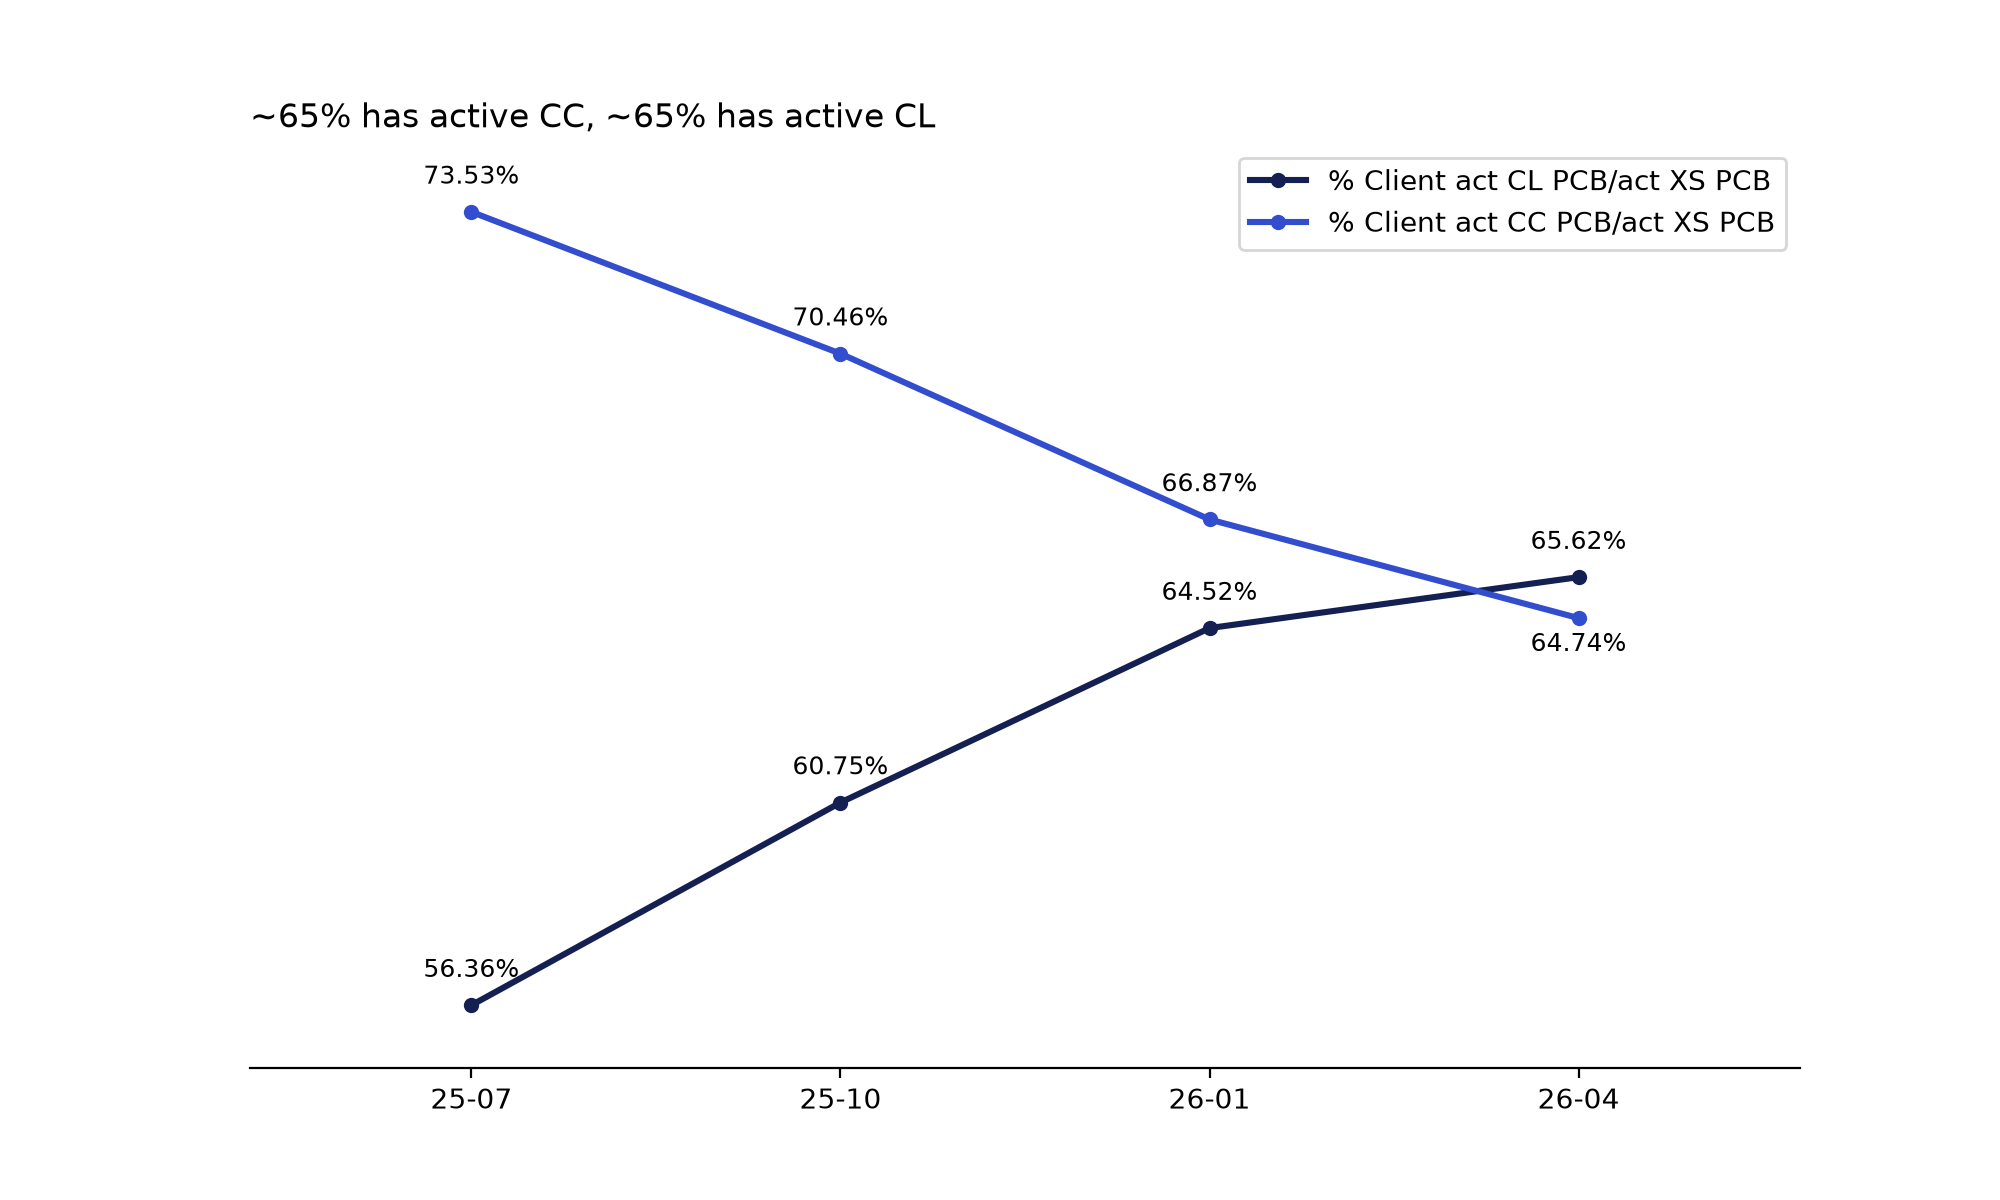
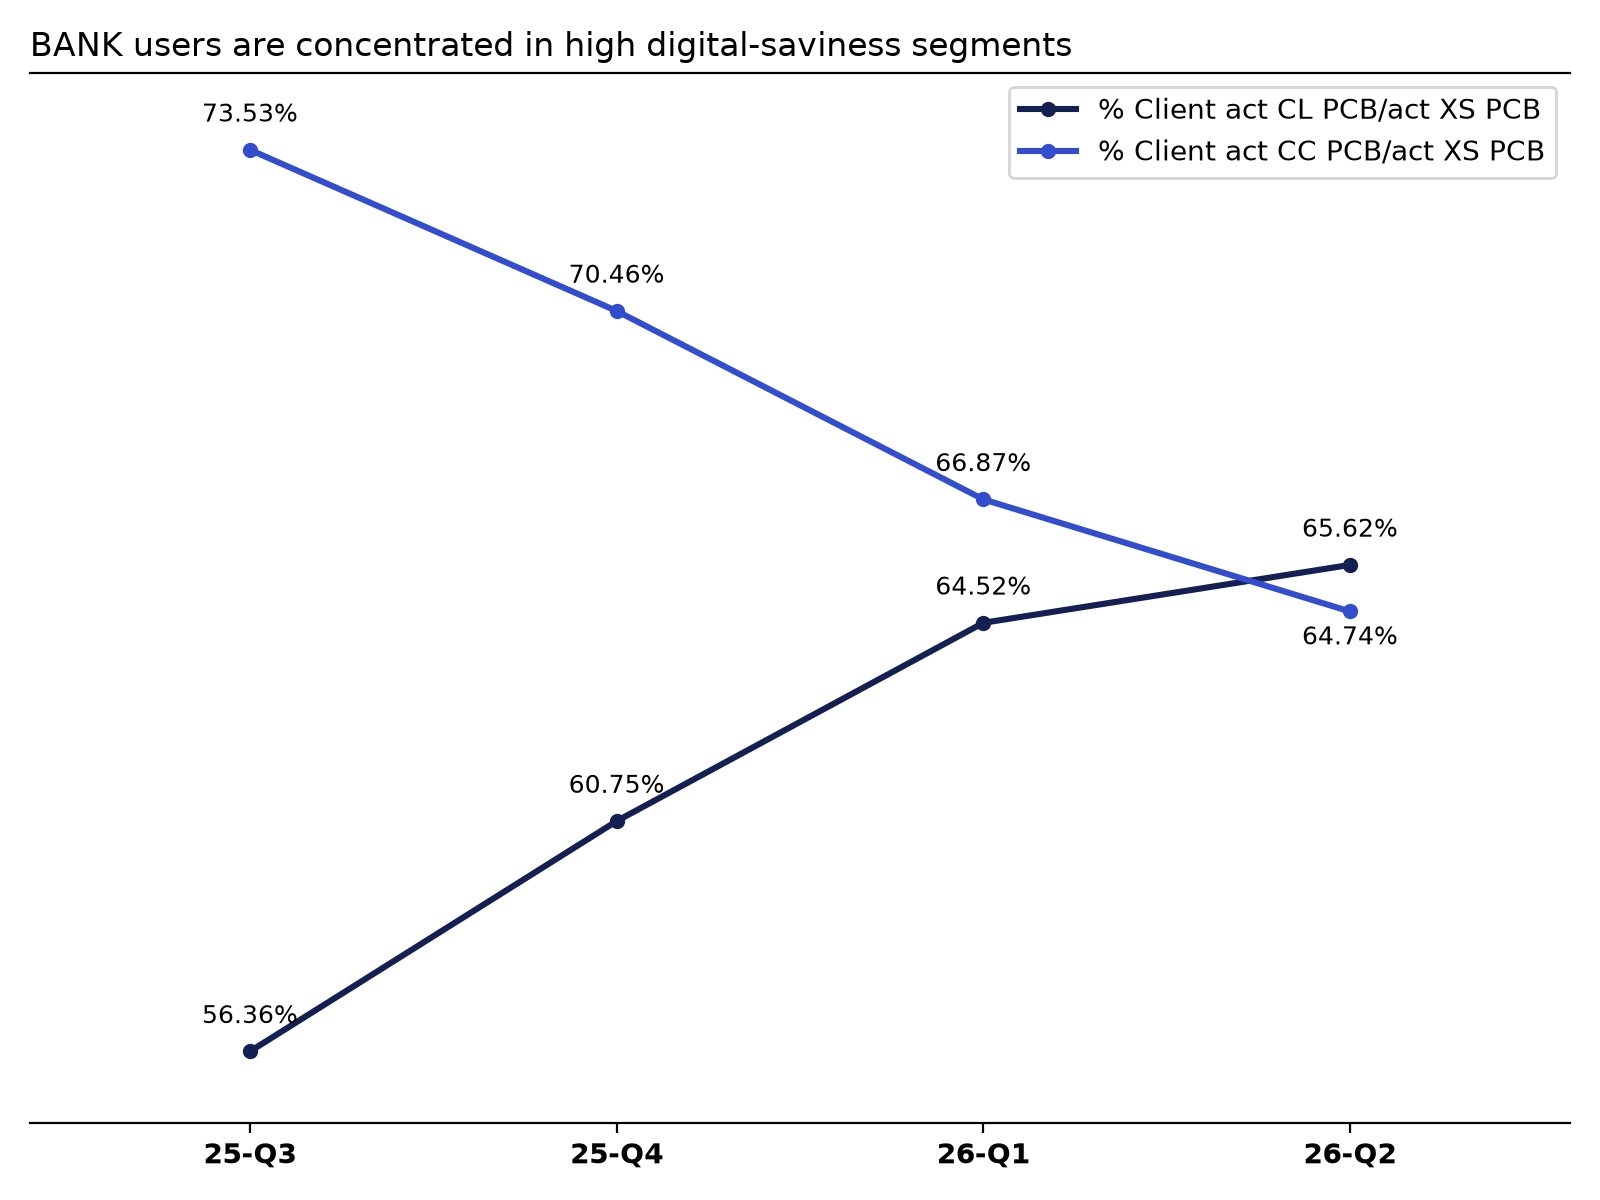
new

diff --git a/story/pcb_bank/plot/pcb.py b/story/pcb_bank/plot/pcb.py
@@ -10,16 +10,26 @@ from src.custom.fonts import FONT_STACKS, resolve_installed_font
 
 @register_plot("pcb")
 def bar_by_quarter(ds: Dataset):
-    fig, ax = plt.subplots(figsize=(10, 6))
+    fig, ax = plt.subplots(figsize=(8, 6))
     line = Vizzy(fig, ax, ds).line(dim="DATE_REPORT_QUARTER", measure=["% Client act CL PCB/act XS PCB", "% Client act CC PCB/act XS PCB"])
 
-    ap1 = AdjustPos(at_dimension_val='26-04', of_measure="% Client act CC PCB/act XS PCB", pad_v=-22)
+    ap1 = AdjustPos(at_dimension_val='26-Q2', of_measure="% Client act CC PCB/act XS PCB", pad_v=-22)
 
     line.set_theme(pal='step5-blue')
     line.show_data_label(adjust_pos=[ap1])
-    ax.yaxis.set_visible(False)
 
     title_font = resolve_installed_font(*[n.strip(" '") for n in FONT_STACKS["sans_headline"].split(",")])
-    ax.set_title('~65% has active CC, ~65% has active CL', loc='left', fontfamily=title_font)
+    ax.set_title('BANK users are concentrated in high digital-saviness segments', loc='left', fontfamily=title_font)
+
+    ax.tick_params(axis='y', left=False, labelleft=False)
+    # ax.yaxis.grid(True, color="gray", linewidth=0.6, linestyle='-', zorder=0)
+
+    for s in ax.spines.values():
+        s.set_visible(False)
+
+    ax.spines['top'].set_visible(True)
+    ax.spines['bottom'].set_visible(True)
+
+    fig.tight_layout()
 
     return fig